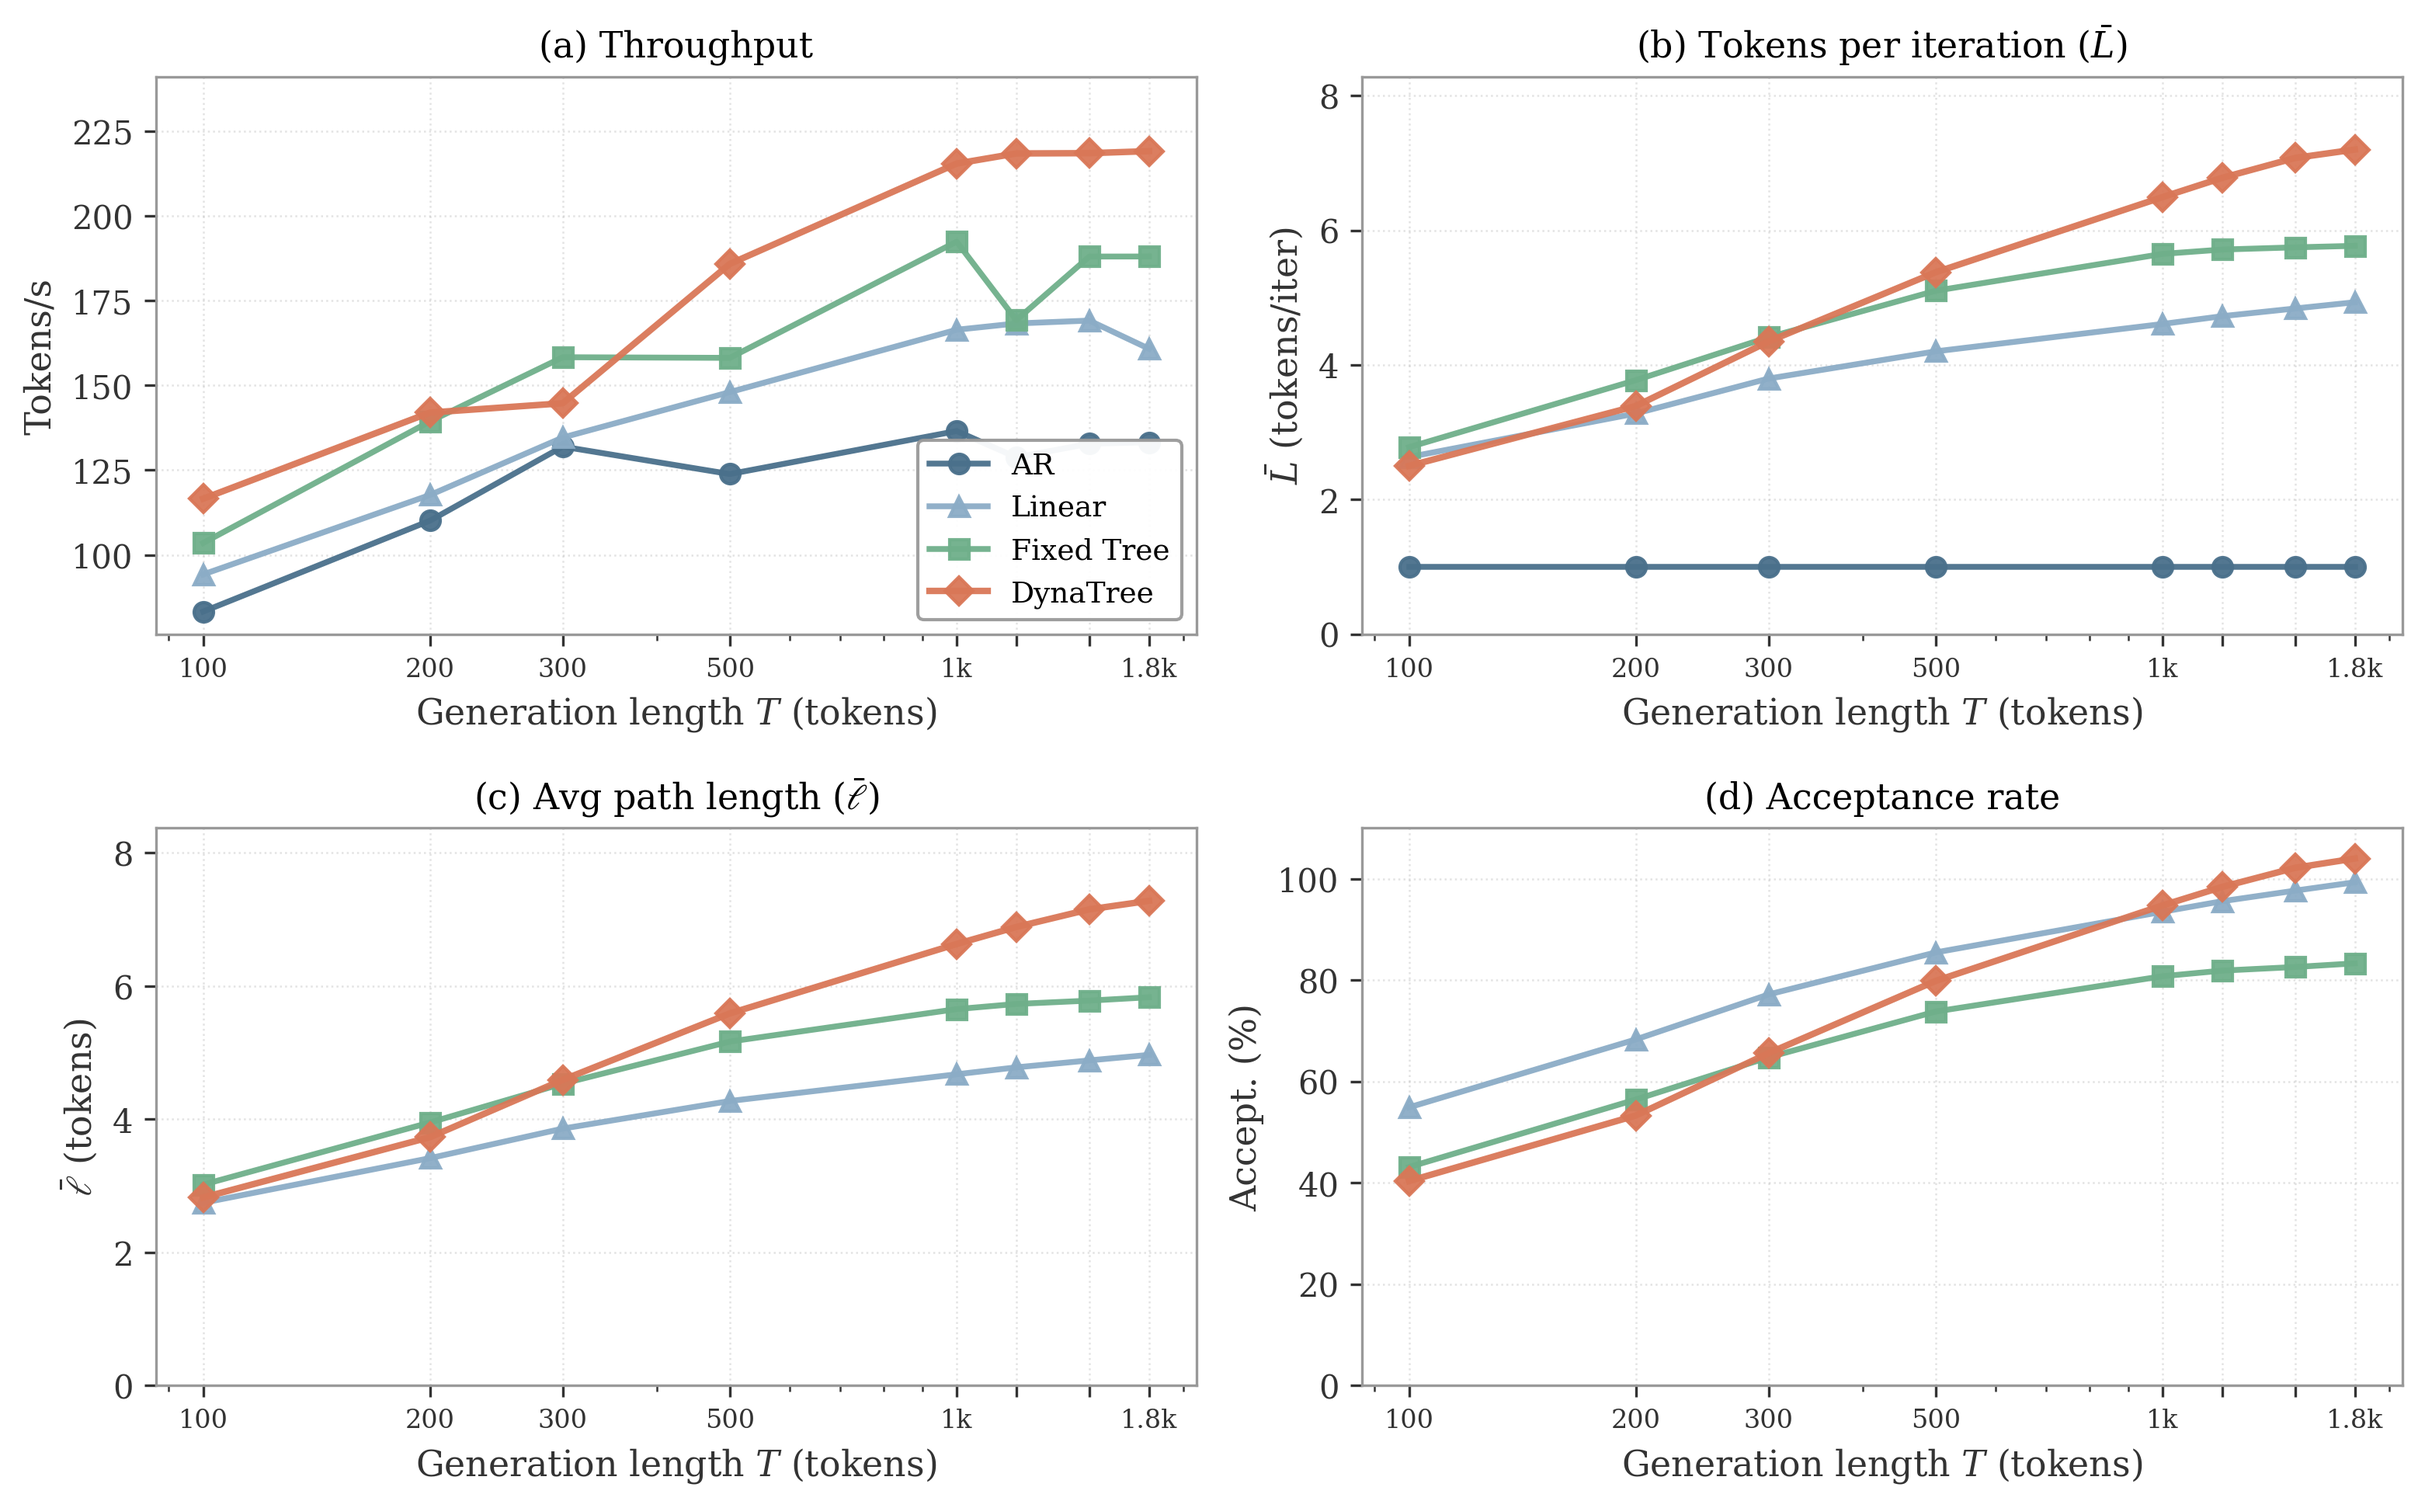
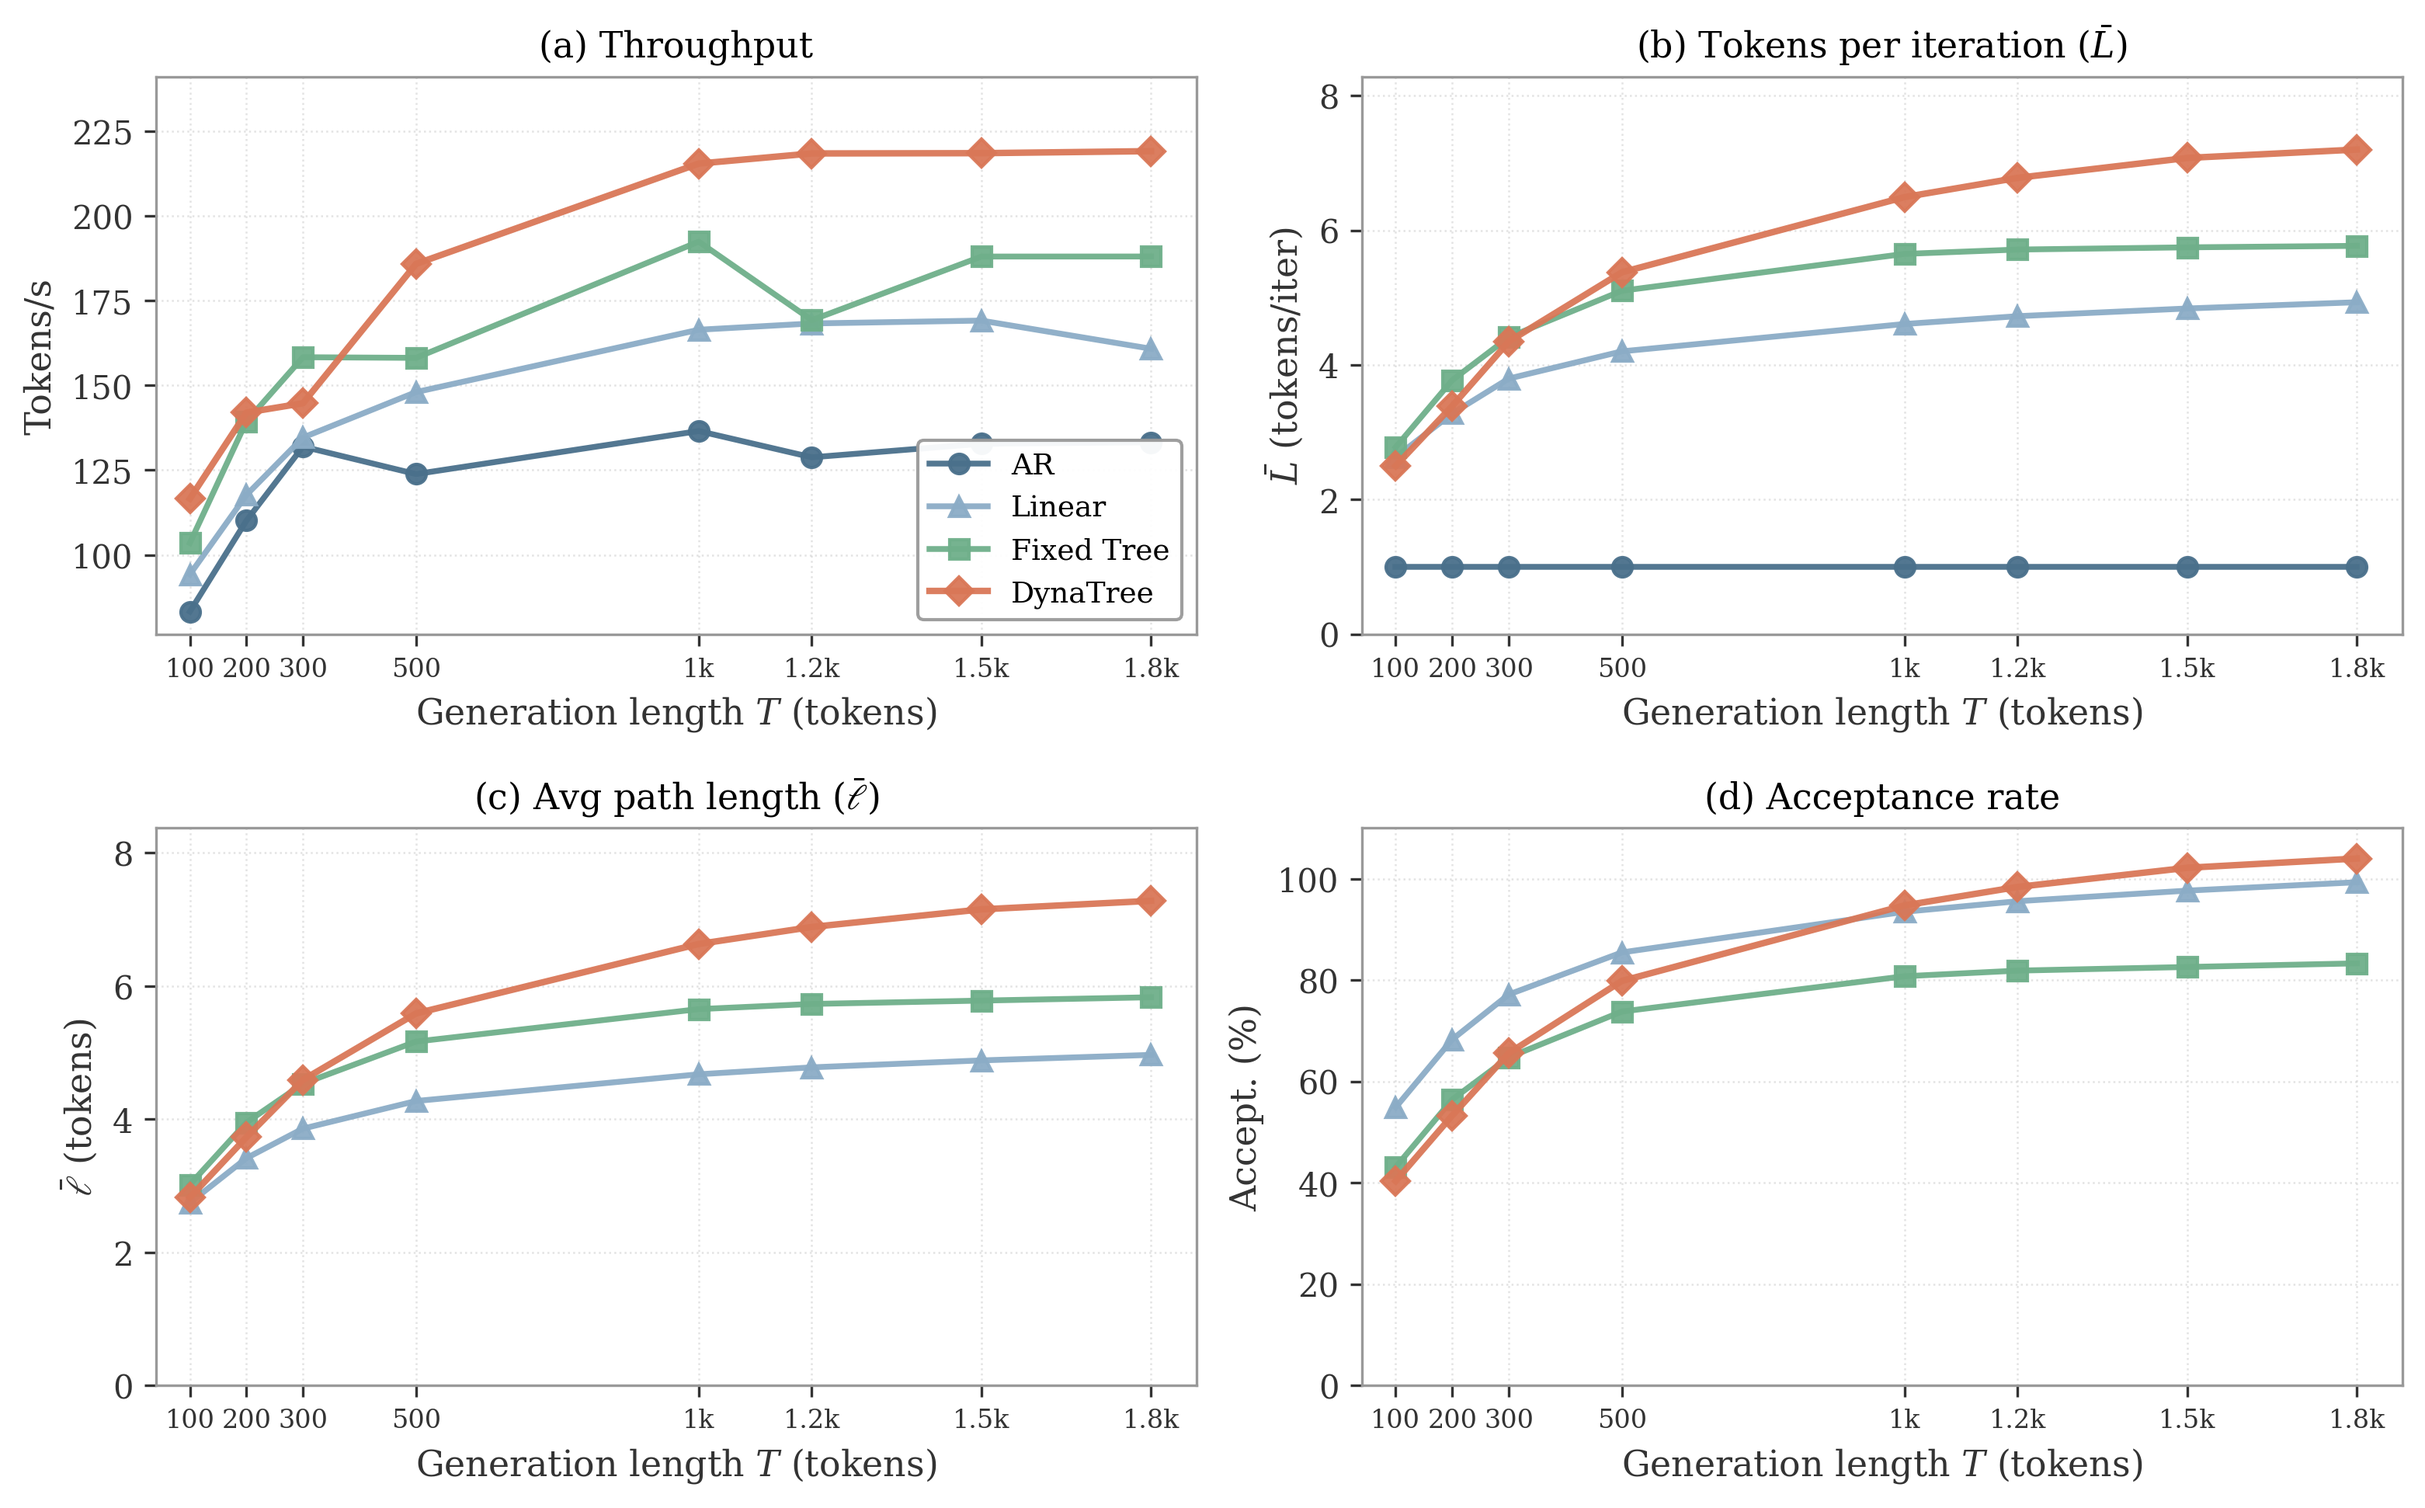
Make length-scaling Figure 5 use linear x-axis

diff --git a/plot_length_scaling_fourpanel.py b/plot_length_scaling_fourpanel.py
@@ -87,16 +87,13 @@ def main() -> None:
             return f"{v:g}k"
         return str(t)
 
-    # Avoid crowded labels in the 1k+ region: keep ticks but hide some labels.
-    show_labels = {100, 200, 300, 500, 1000, 1800}
-    xticklabels = [fmt_T(t) if t in show_labels else "" for t in lengths]
-
     fig, axes = plt.subplots(2, 2, figsize=(10.5, 6.6))
 
     def common_x(ax):
-        ax.set_xscale("log")
         ax.set_xticks(lengths)
-        ax.set_xticklabels(xticklabels, fontsize=8)
+        # Use a linear x-axis for readability (log scale compresses the large-T region).
+        ax.set_xticklabels([fmt_T(t) for t in lengths], fontsize=8)
+        ax.set_xlim(min(lengths) - 60, max(lengths) + 80)
         ax.grid(True, linestyle=":", alpha=0.35, linewidth=0.6)
 
     # (a) Throughput
